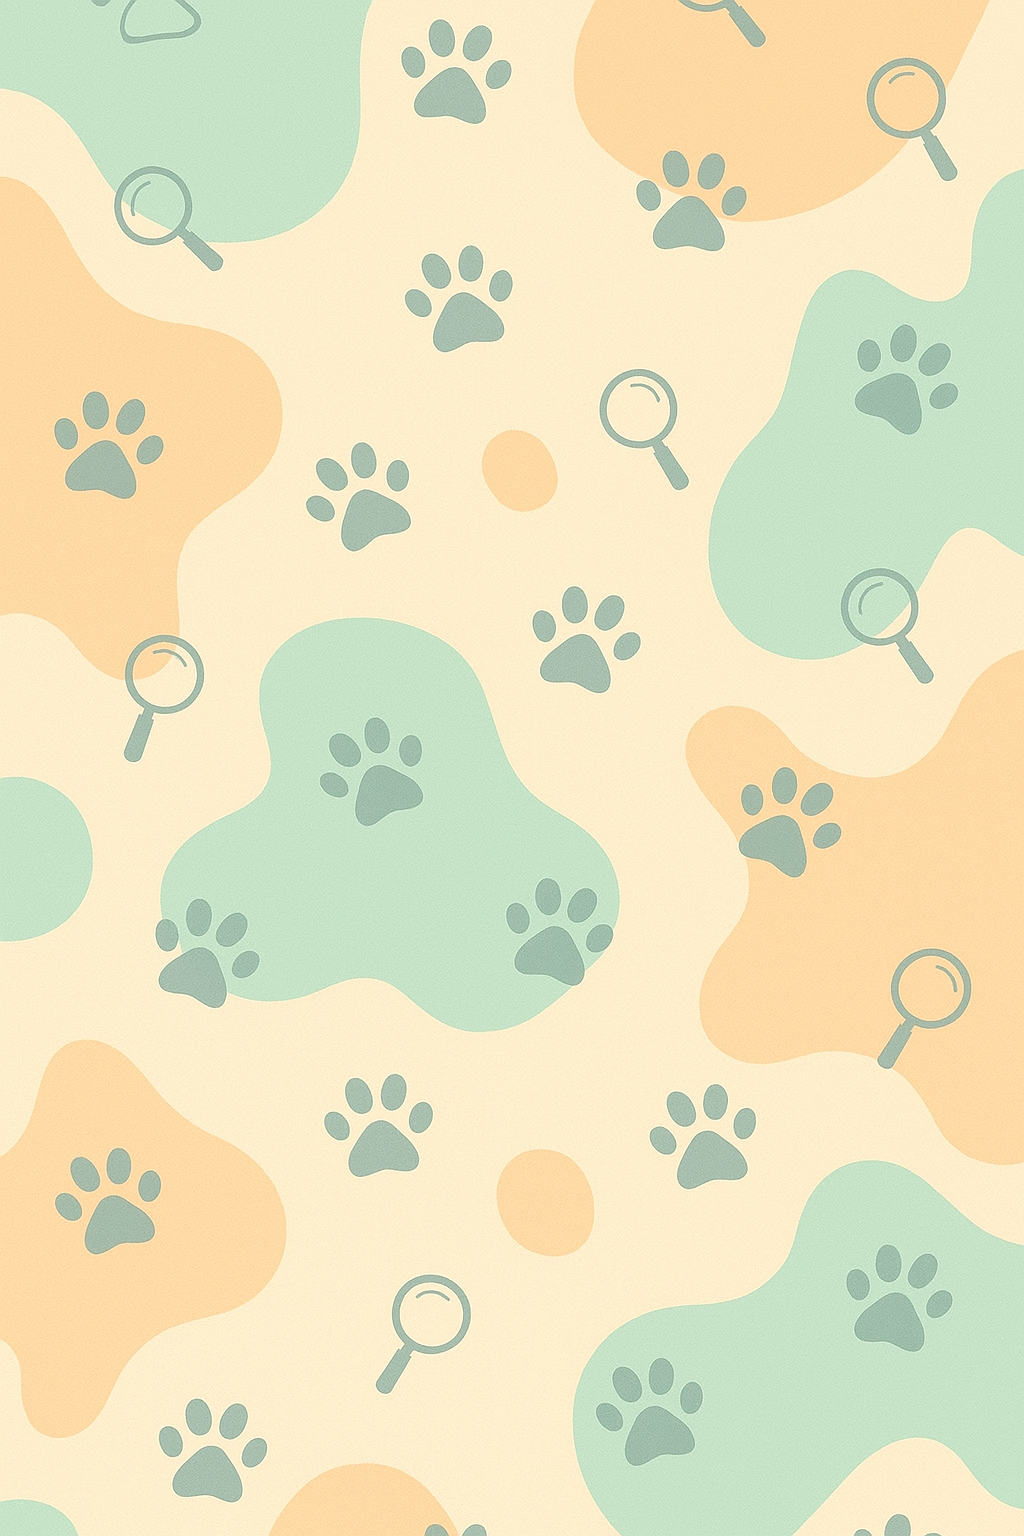
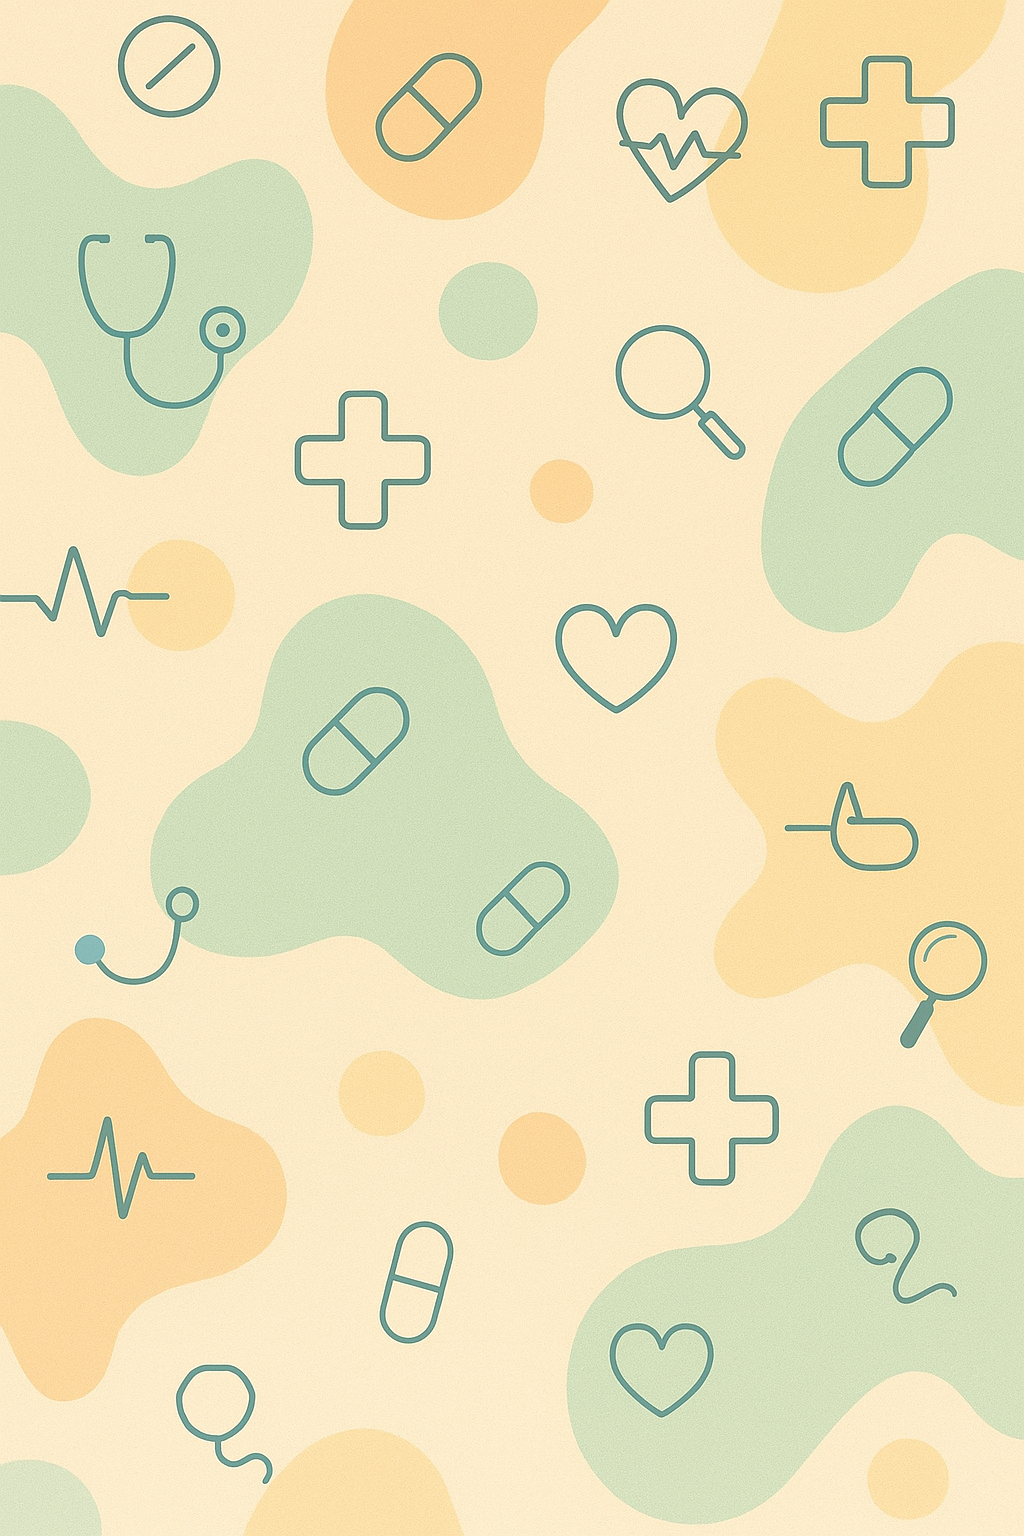
add home

diff --git a/VitaBot/app/(tabs)/index.tsx b/VitaBot/app/(tabs)/index.tsx
@@ -1,45 +1,209 @@
+import React from 'react';
+import {
+  View,
+  Text,
+  StyleSheet,
+  ScrollView,
+  ImageBackground,
+  Image,
+  TouchableOpacity,
+  Dimensions,
+} from 'react-native';
+import { Ionicons, MaterialCommunityIcons } from '@expo/vector-icons';
+import { LinearGradient } from 'expo-linear-gradient';
+import { router } from 'expo-router';
 
+/* ─── Assets ───────────────────────────── */
+const PATTERN_BG = require('../../assets/images/login-pattern.png'); // el que generamos
+const AVATAR     = require('../../assets/images/login-bg.png');
 
+/* ─── Colores base ─────────────────────── */
+const colors = {
+  cream:  '#FFF8F1',
+  navy:   '#0B2C70',
+  mint:   '#CFE9DF',
+  orange: '#FAD7AF',
+};
 
+export default function HomeScreen() {
+  return (
+    <ImageBackground source={PATTERN_BG} style={styles.bg} resizeMode="cover">
+      {/* Overlay crema translúcido para contraste */}
+      <LinearGradient
+        colors={['rgba(255,248,241,0.92)', 'rgba(255,248,241,0.92)']}
+        style={StyleSheet.absoluteFillObject}
+      />
 
-// import { useState } from 'react';
-// import { View, FlatList, StyleSheet, TouchableOpacity, Text } from 'react-native';
-// import PostCard, { Post } from '@/components/PostCard';
+      <ScrollView contentContainerStyle={styles.scroll}>
+        {/* HEADER */}
+        <View style={styles.header}>
+          <Image source={AVATAR} style={styles.avatar} />
+          <View>
+            <Text style={styles.hello}>Hola,</Text>
+            <Text style={styles.name}>Pepe</Text>
+          </View>
+          {/* Campana notificaciones */}
+          <TouchableOpacity
+            style={styles.bell}
+            onPress={() => router.push('./notifications')}
+          >
+            <Ionicons name="notifications-outline" size={26} color={colors.navy} />
+          </TouchableOpacity>
+        </View>
 
-// const mockLost: Post[] = [
-//   { id: '1', author: 'Pepe Rodriguez', createdAt: '13 de mayo · 07:14', description: '¡Buenas! Esta es mi perra Luna...', image: 'https://images.unsplash.com/photo-1525253086316-d0c936c814f8?auto=format&fit=crop&w=400&q=60' },
-// ];
-// const mockAdopt: Post[] = [
-//   { id: '2', author: 'Refugio Patitas', createdAt: '11 de mayo · 10:00', description: 'Cachorra en adopción...', image: 'https://images.unsplash.com/photo-1507149833265-60c372daea22?auto=format&fit=crop&w=400&q=60' },
-// ];
+        {/* ACCIONES RÁPIDAS */}
+        <View style={styles.quickRow}>
+          <QuickCard
+            label="Resultados"
+            icon="clipboard-pulse"
+            color={colors.mint}
+            onPress={() => router.push('./results')}
+          />
+          <QuickCard
+            label="Turnos"
+            icon="calendar-check"
+            color={colors.orange}
+            onPress={() => router.push('./appointments')}
+          />
+        </View>
 
-// type FeedType = 'LOST' | 'ADOPT';
+        <View style={styles.quickRow}>
+          <QuickCard
+            label="Recordatorios"
+            icon="pill"
+            color={colors.orange}
+            onPress={() => router.push('./reminders')}
+          />
+          <QuickCard
+            label="Asistente"
+            icon="headset"
+            color={colors.mint}
+            onPress={() => router.push('./assistant')}
+          />
+        </View>
 
-// export default function HomeFeed() {
-//   const [feedType, setFeedType] = useState<FeedType>('LOST');
-//   const data = feedType === 'LOST' ? mockLost : mockAdopt;
+        {/* PRÓXIMO TURNO */}
+        <View style={styles.section}>
+          <Text style={styles.sectionTitle}>Próximo turno</Text>
 
-//   return (
-//     <View style={styles.container}>
-//       {/* Selector */}
-//       <View style={styles.selectorContainer}>
-//         <TouchableOpacity style={[styles.selectorBtn, feedType === 'LOST' && styles.active]} onPress={() => setFeedType('LOST')}>
-//           <Text style={[styles.selectorText, feedType === 'LOST' && styles.activeText]}>Animales / Objetos perdidos</Text>
-//         </TouchableOpacity>
-//         <TouchableOpacity style={[styles.selectorBtn, feedType === 'ADOPT' && styles.active]} onPress={() => setFeedType('ADOPT')}>
-//           <Text style={[styles.selectorText, feedType === 'ADOPT' && styles.activeText]}>Adopciones</Text>
-//         </TouchableOpacity>
-//       </View>
-//       {/* Lista */}
-//       <FlatList data={data} keyExtractor={(item) => item.id} renderItem={({ item }) => <PostCard post={item} />} contentContainerStyle={{ paddingVertical: 8, paddingHorizontal: 12 }} />
-//     </View>
-//   );
-// }
-// const styles = StyleSheet.create({
-//   container: { flex: 1, backgroundColor: '#f2f2f2' },
-//   selectorContainer: { flexDirection: 'row', backgroundColor: '#fff', paddingVertical: 6, justifyContent: 'space-around' },
-//   selectorBtn: { paddingVertical: 6, paddingHorizontal: 8, borderRadius: 20 },
-//   selectorText: { fontSize: 13, color: '#1E3F8A' },
-//   active: { backgroundColor: '#1E3F8A' },
-//   activeText: { color: '#fff', fontWeight: '600' },
-// });
+          <View style={styles.appointmentCard}>
+            <Ionicons name="medkit" size={30} color={colors.navy} style={{ marginRight: 12 }} />
+            <View style={{ flex: 1 }}>
+              <Text style={styles.appointmentLabel}>Análisis de sangre</Text>
+              <Text style={styles.appointmentDate}>18 jun 2025 · 08:30 h</Text>
+            </View>
+            <TouchableOpacity
+              onPress={() => router.push('./appointments')}
+              style={styles.seeBtn}
+            >
+              <Text style={styles.seeTxt}>Ver</Text>
+            </TouchableOpacity>
+          </View>
+        </View>
+      </ScrollView>
+    </ImageBackground>
+  );
+}
+
+/* ─── Componente tarjeta rápida ─────────── */
+type QuickCardProps = {
+  label: string;
+  icon:  string;
+  color: string;
+  onPress: () => void;
+};
+
+function QuickCard({ label, icon, color, onPress }: QuickCardProps) {
+  return (
+    <TouchableOpacity
+      style={[styles.quickCard, { backgroundColor: color }]}
+      activeOpacity={0.85}
+      onPress={onPress}
+    >
+      <MaterialCommunityIcons name={icon as any} size={32} color={colors.navy} />
+      <Text style={styles.quickLabel}>{label}</Text>
+    </TouchableOpacity>
+  );
+}
+
+/* ─── Estilos ───────────────────────────── */
+const { width } = Dimensions.get('window');
+const cardSize = (width * 0.9 - 24) / 2; // dos tarjetas por fila
+
+const styles = StyleSheet.create({
+  bg: { flex: 1 },
+  scroll: {
+    alignItems: 'center',
+    paddingVertical: 32,
+    paddingBottom: 80,
+  },
+
+  /* Header */
+  header: {
+    flexDirection: 'row',
+    alignItems: 'center',
+    width: '90%',
+    marginBottom: 28,
+  },
+  avatar: {
+    width: 58,
+    height: 58,
+    borderRadius: 29,
+    marginRight: 14,
+    borderWidth: 2,
+    borderColor: colors.navy,
+  },
+  hello: { fontSize: 18, color: '#555' },
+  name:  { fontSize: 26, fontWeight: '700', color: colors.navy },
+  bell:  { marginLeft: 'auto' },
+
+  /* Quick cards */
+  quickRow: {
+    flexDirection: 'row',
+    width: '90%',
+    justifyContent: 'space-between',
+    marginBottom: 16,
+  },
+  quickCard: {
+    width: cardSize,
+    height: cardSize,
+    borderRadius: 26,
+    justifyContent: 'center',
+    alignItems: 'center',
+    shadowColor: '#000', shadowOffset: { width: 0, height: 4 },
+    shadowOpacity: 0.15, shadowRadius: 6, elevation: 6,
+  },
+  quickLabel: { marginTop: 8, fontSize: 15, fontWeight: '600', color: colors.navy },
+
+  /* Secciones */
+  section: {
+    width: '90%',
+    marginTop: 32,
+  },
+  sectionTitle: {
+    fontSize: 20,
+    fontWeight: '700',
+    color: colors.navy,
+    marginBottom: 12,
+  },
+
+  /* Card turno */
+  appointmentCard: {
+    flexDirection: 'row',
+    alignItems: 'center',
+    padding: 18,
+    backgroundColor: '#FFFFFF',
+    borderRadius: 22,
+    shadowColor: '#000', shadowOffset: { width: 0, height: 3 },
+    shadowOpacity: 0.12, shadowRadius: 4, elevation: 4,
+  },
+  appointmentLabel: { fontSize: 16, fontWeight: '600', color: colors.navy },
+  appointmentDate:  { fontSize: 14, color: '#666', marginTop: 2 },
+  seeBtn: {
+    backgroundColor: colors.navy,
+    paddingVertical: 8,
+    paddingHorizontal: 16,
+    borderRadius: 14,
+  },
+  seeTxt: { color: '#fff', fontSize: 14, fontWeight: '600' },
+});

diff --git a/VitaBot/app/login.tsx b/VitaBot/app/login.tsx
@@ -77,7 +77,7 @@ export default function LoginScreen() {
             <Ionicons name="medkit" size={64} color="#0B2C70" />
           </Animatable.View>
 
-          <Text style={styles.title}>Huella Health</Text>
+          <Text style={styles.title}>VitaBot</Text>
 
           {/* Frases animadas */}
           <View style={styles.typingContainer}>
